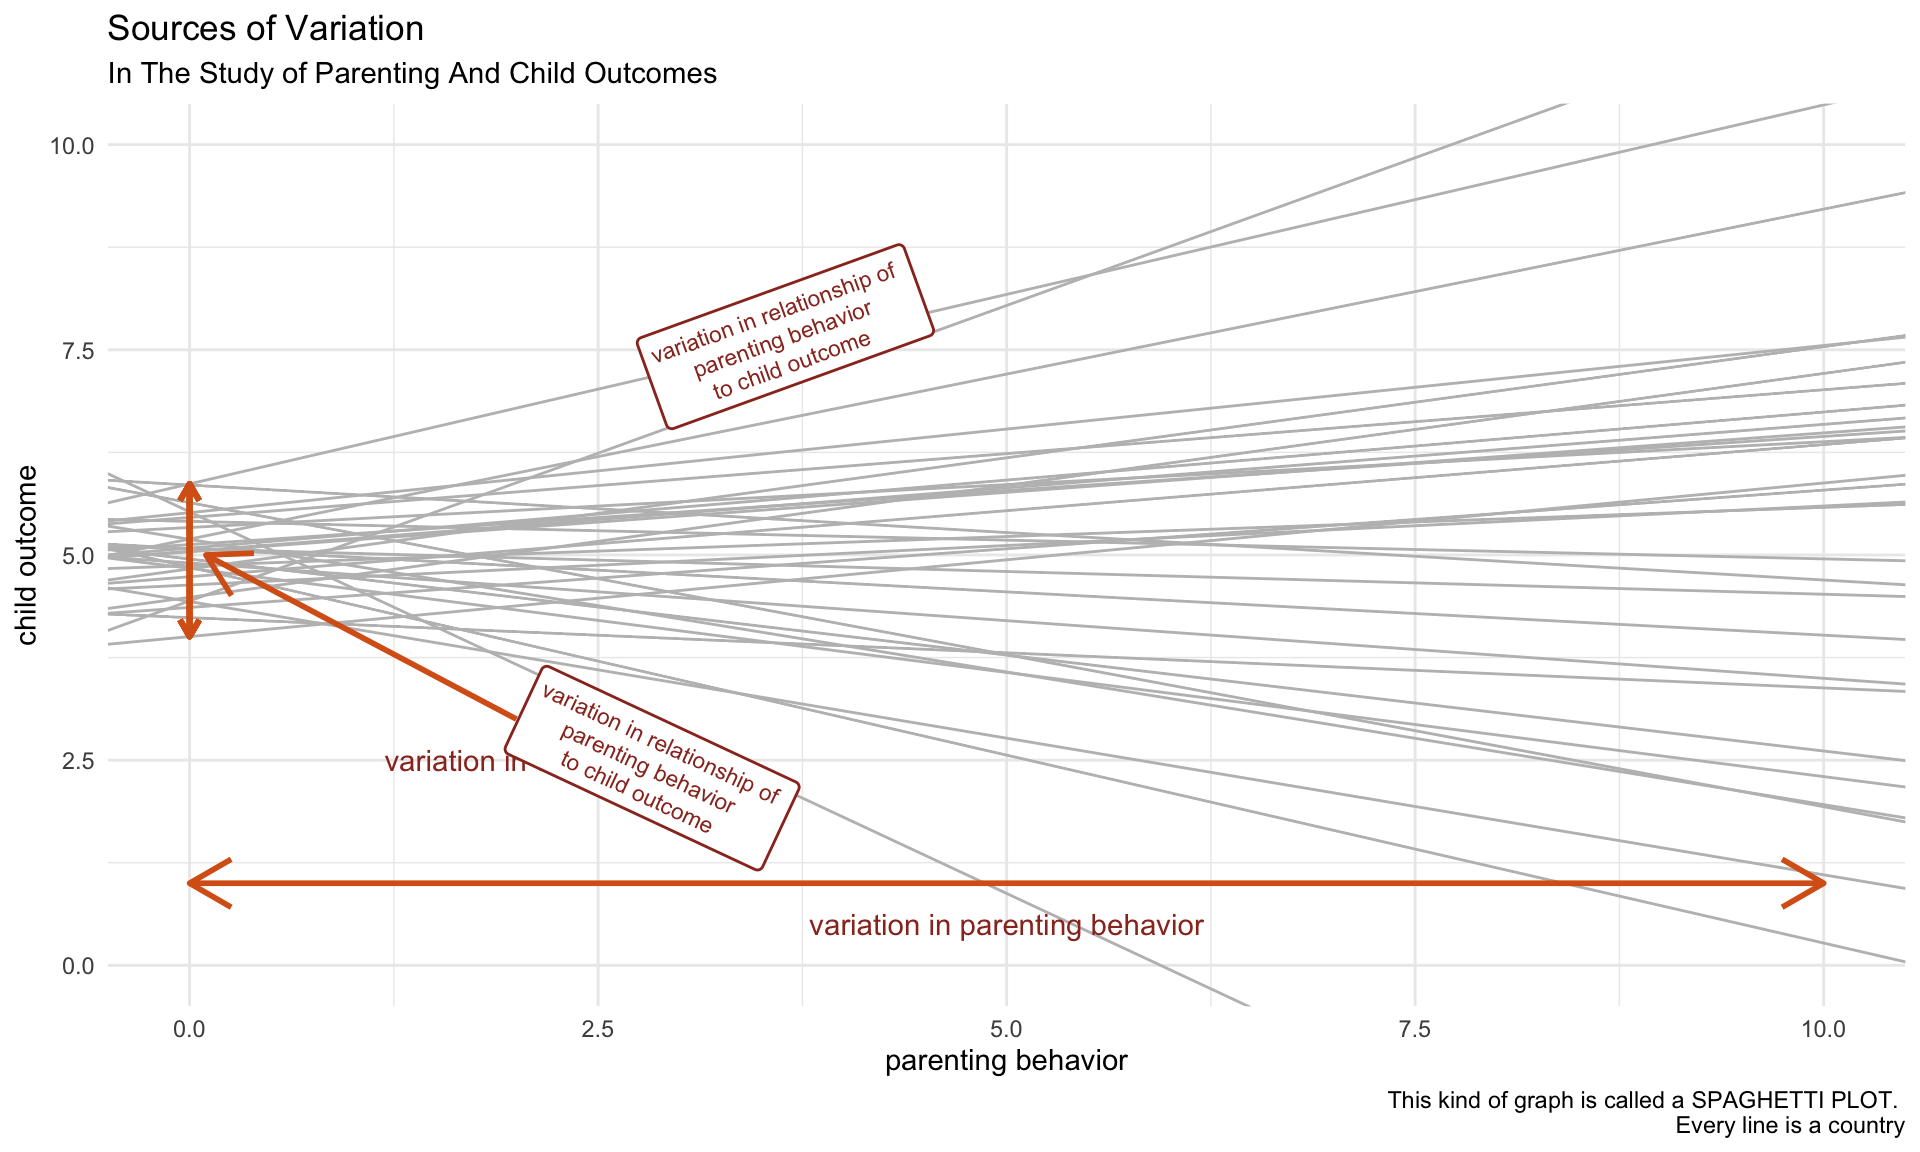
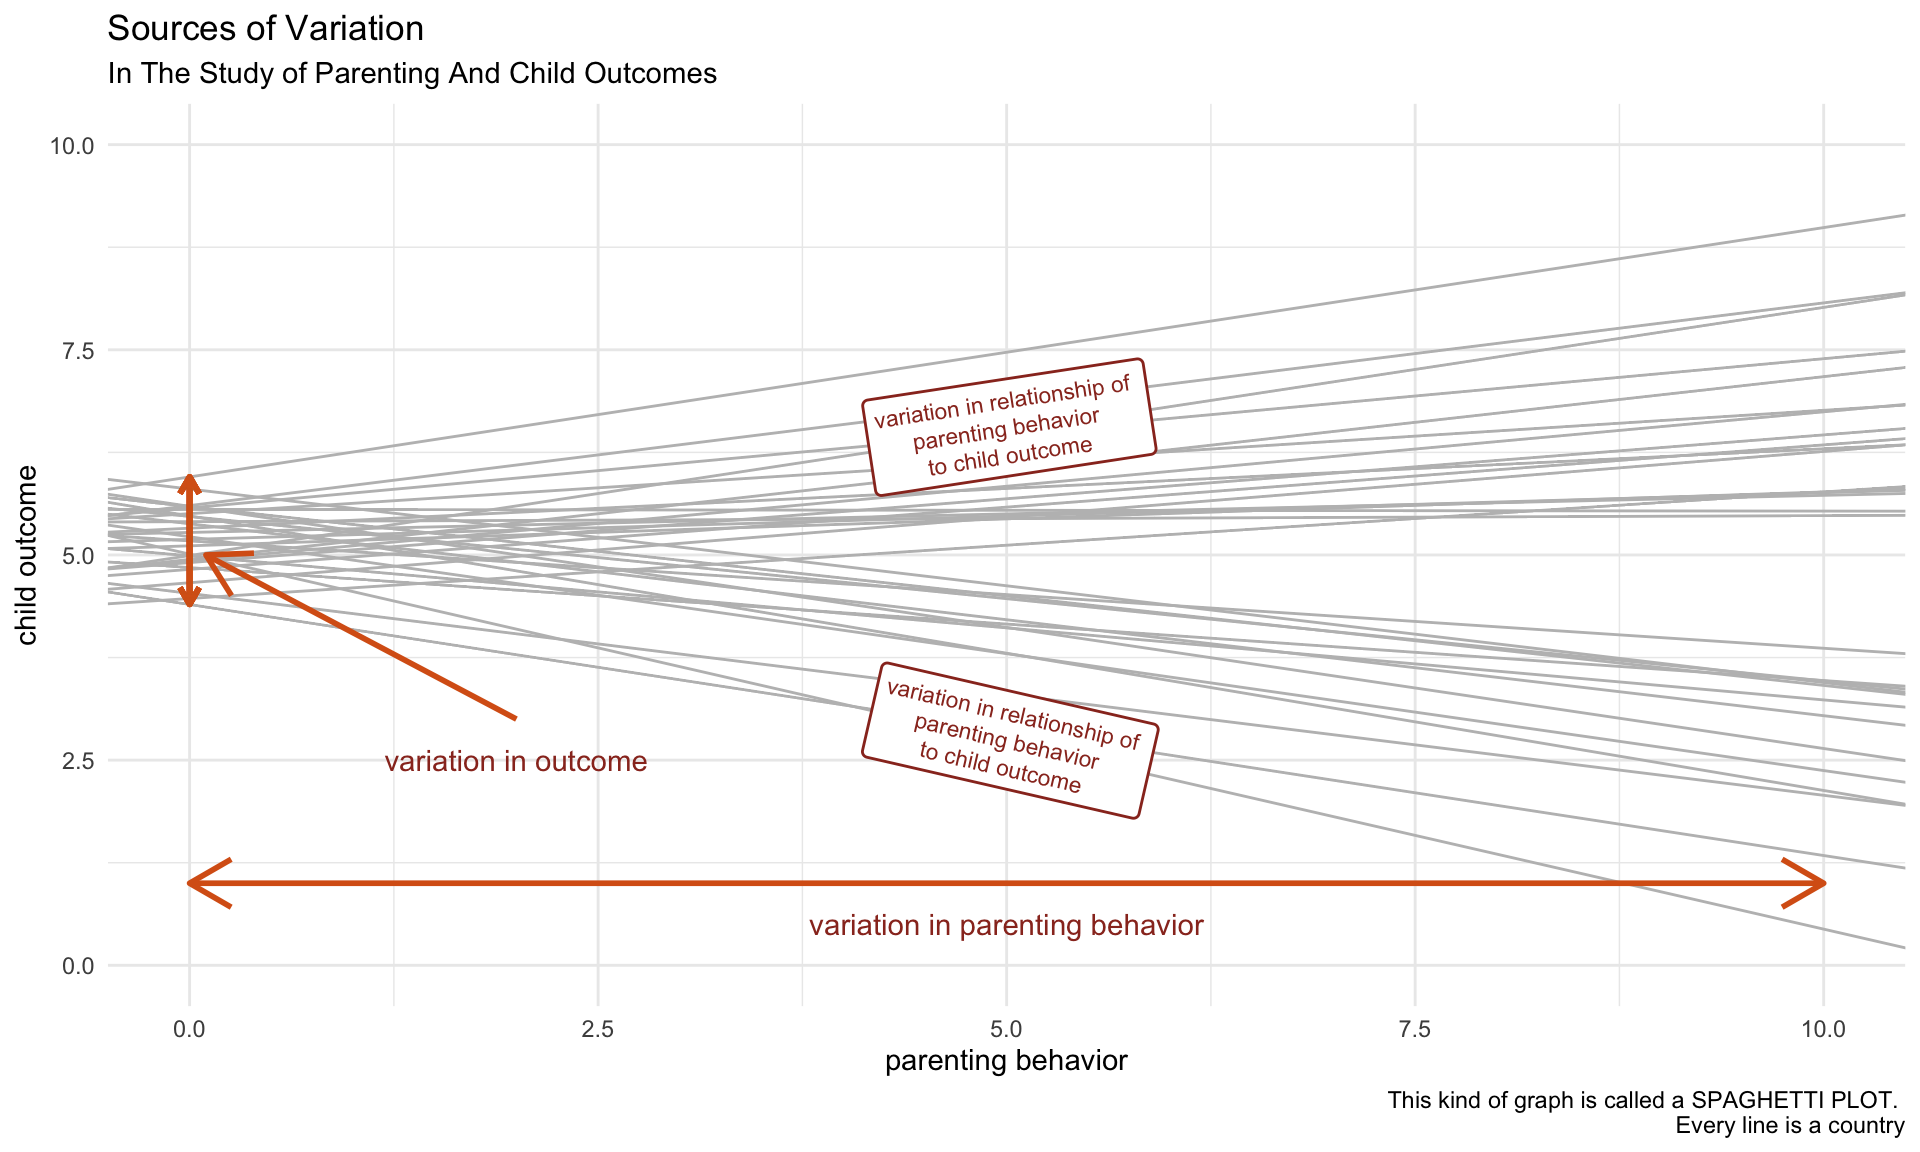
OK, I keep goofing around with the MICHIGAN colors: back to maize letters on blue background

diff --git a/positive-and-negative-parenting-revealjs.html b/positive-and-negative-parenting-revealjs.html
@@ -303,8 +303,8 @@ function typeWriter() {
 <p>MICS data collected by UNICEF from Low and Middle Income Countries (LMIC) around the world. <span class="math inline">\(N = 224,632 \text{ families}; N_{countries} = 60\)</span></p>
 <div class="cell">
 <div class="cell-output-display">
-<div class="plotly html-widget html-fill-item" id="htmlwidget-a1265810f9f6739d7c1f" style="width:960px;height:480px;"></div>
-<script type="application/json" data-for="htmlwidget-a1265810f9f6739d7c1f">{"x":{"visdat":{"2df72813d40c":["function () ","plotlyVisDat"]},"cur_data":"2df72813d40c","attrs":{"2df72813d40c":{"alpha_stroke":1,"sizes":[10,100],"spans":[1,20],"z":1,"text":{},"colors":"dodgerblue","hoverinfo":"text","locations":{},"showscale":false,"marker":{"size":10,"line":{"color":"rgba(0,0,0,1)","width":0.5}},"inherit":true}},"layout":{"margin":{"b":40,"l":60,"t":25,"r":10},"mapType":"geo","geo":{"domain":{"x":[0,1],"y":[0,1]},"showframe":true,"showcoastlines":true,"showcountries":true,"showland":true,"countrycolor":"rgba(190,190,190,1)","showocean":true,"oceancolor":"white","projection":{"type":"robinson"},"landcolor":"rgba(211,211,211,1)","bgcolor":"transparent"},"plot_bgcolor":"transparent","paper_bgcolor":"transparent","scene":{"zaxis":{"title":[]}},"hovermode":"closest","showlegend":false},"source":"A","config":{"modeBarButtonsToAdd":["hoverclosest","hovercompare"],"showSendToCloud":false,"displayModeBar":false},"data":[{"colorbar":{"title":"","ticklen":2},"colorscale":[["0","rgba(30,144,255,1)"],["1","rgba(30,144,255,1)"]],"showscale":false,"z":[1,1,1,1,1,1,1,1,1,1,1,1,1,1,1,1,1,1,1,1,1,1,1,1,1,1,1,1,1,1,1,1,1,1,1,1,1,1,1,1,1,1,1,1,1,1,1,1,1,1,1,1,1,1,1,1,1,1,1,1,1],"text":["Algeria","Argentina","Bangladesh","Barbados","Belarus","Belize","Benin","Bosnia and Herzegovina","Cameroon","Central African Republic","Chad","Democratic Republic of the Congo","Republic of the Congo","Costa Rica","Cote d'Ivoire","Dominican Republic","El Salvador","Eswatini","Ghana","Guinea","Guinea Bissau","Guyana","Iraq","Jamaica","Kazakhstan","Kenya","Kosovo","Kyrgyzstan","Laos","Macedonia","Madagascar","Malawi","Mali","Mauritania","Mexico","Moldova","Mongolia","Montenegro","Nepal","Nigeria","Pakistan","Panama","Paraguay","Sao Tome and Principe","Senegal","Serbia","Sierra Leone","Somalia","St. Lucia","State of Palestine","Suriname","Thailand","The Gambia","Togo","Trinidad and Tobago","Tunisia","Turkmenistan","Ukraine","Uruguay","Vietnam","Zimbabwe"],"hoverinfo":["text","text","text","text","text","text","text","text","text","text","text","text","text","text","text","text","text","text","text","text","text","text","text","text","text","text","text","text","text","text","text","text","text","text","text","text","text","text","text","text","text","text","text","text","text","text","text","text","text","text","text","text","text","text","text","text","text","text","text","text","text"],"locations":["DZA","ARG","BGD","BRB","BLR","BLZ","BEN","BIH","CMR","CAF","TCD","COD","COG","CRI","CIV","DOM","SLV","SWZ","GHA","GIN","GNB","GUY","IRQ","JAM","KAZ","KEN",null,"KGZ","LAO","MKD","MDG","MWI","MLI","MRT","MEX","MDA","MNG","MNE","NPL","NGA","PAK","PAN","PRY","STP","SEN","SRB","SLE","SOM","LCA","PSE","SUR","THA","GMB","TGO","TTO","TUN","TKM","UKR","URY","VNM","ZWE"],"marker":{"size":10,"line":{"color":"rgba(0,0,0,1)","width":0.5}},"type":"choropleth","geo":"geo","frame":null}],"highlight":{"on":"plotly_click","persistent":false,"dynamic":false,"selectize":false,"opacityDim":0.20000000000000001,"selected":{"opacity":1},"debounce":0},"shinyEvents":["plotly_hover","plotly_click","plotly_selected","plotly_relayout","plotly_brushed","plotly_brushing","plotly_clickannotation","plotly_doubleclick","plotly_deselect","plotly_afterplot","plotly_sunburstclick"],"base_url":"https://plot.ly"},"evals":[],"jsHooks":[]}</script>
+<div class="plotly html-widget html-fill-item" id="htmlwidget-39c71acad44f631db591" style="width:960px;height:480px;"></div>
+<script type="application/json" data-for="htmlwidget-39c71acad44f631db591">{"x":{"visdat":{"2f894f95a3b7":["function () ","plotlyVisDat"]},"cur_data":"2f894f95a3b7","attrs":{"2f894f95a3b7":{"alpha_stroke":1,"sizes":[10,100],"spans":[1,20],"z":1,"text":{},"colors":"dodgerblue","hoverinfo":"text","locations":{},"showscale":false,"marker":{"size":10,"line":{"color":"rgba(0,0,0,1)","width":0.5}},"inherit":true}},"layout":{"margin":{"b":40,"l":60,"t":25,"r":10},"mapType":"geo","geo":{"domain":{"x":[0,1],"y":[0,1]},"showframe":true,"showcoastlines":true,"showcountries":true,"showland":true,"countrycolor":"rgba(190,190,190,1)","showocean":true,"oceancolor":"white","projection":{"type":"robinson"},"landcolor":"rgba(211,211,211,1)","bgcolor":"transparent"},"plot_bgcolor":"transparent","paper_bgcolor":"transparent","scene":{"zaxis":{"title":[]}},"hovermode":"closest","showlegend":false},"source":"A","config":{"modeBarButtonsToAdd":["hoverclosest","hovercompare"],"showSendToCloud":false,"displayModeBar":false},"data":[{"colorbar":{"title":"","ticklen":2},"colorscale":[["0","rgba(30,144,255,1)"],["1","rgba(30,144,255,1)"]],"showscale":false,"z":[1,1,1,1,1,1,1,1,1,1,1,1,1,1,1,1,1,1,1,1,1,1,1,1,1,1,1,1,1,1,1,1,1,1,1,1,1,1,1,1,1,1,1,1,1,1,1,1,1,1,1,1,1,1,1,1,1,1,1,1,1],"text":["Algeria","Argentina","Bangladesh","Barbados","Belarus","Belize","Benin","Bosnia and Herzegovina","Cameroon","Central African Republic","Chad","Democratic Republic of the Congo","Republic of the Congo","Costa Rica","Cote d'Ivoire","Dominican Republic","El Salvador","Eswatini","Ghana","Guinea","Guinea Bissau","Guyana","Iraq","Jamaica","Kazakhstan","Kenya","Kosovo","Kyrgyzstan","Laos","Macedonia","Madagascar","Malawi","Mali","Mauritania","Mexico","Moldova","Mongolia","Montenegro","Nepal","Nigeria","Pakistan","Panama","Paraguay","Sao Tome and Principe","Senegal","Serbia","Sierra Leone","Somalia","St. Lucia","State of Palestine","Suriname","Thailand","The Gambia","Togo","Trinidad and Tobago","Tunisia","Turkmenistan","Ukraine","Uruguay","Vietnam","Zimbabwe"],"hoverinfo":["text","text","text","text","text","text","text","text","text","text","text","text","text","text","text","text","text","text","text","text","text","text","text","text","text","text","text","text","text","text","text","text","text","text","text","text","text","text","text","text","text","text","text","text","text","text","text","text","text","text","text","text","text","text","text","text","text","text","text","text","text"],"locations":["DZA","ARG","BGD","BRB","BLR","BLZ","BEN","BIH","CMR","CAF","TCD","COD","COG","CRI","CIV","DOM","SLV","SWZ","GHA","GIN","GNB","GUY","IRQ","JAM","KAZ","KEN",null,"KGZ","LAO","MKD","MDG","MWI","MLI","MRT","MEX","MDA","MNG","MNE","NPL","NGA","PAK","PAN","PRY","STP","SEN","SRB","SLE","SOM","LCA","PSE","SUR","THA","GMB","TGO","TTO","TUN","TKM","UKR","URY","VNM","ZWE"],"marker":{"size":10,"line":{"color":"rgba(0,0,0,1)","width":0.5}},"type":"choropleth","geo":"geo","frame":null}],"highlight":{"on":"plotly_click","persistent":false,"dynamic":false,"selectize":false,"opacityDim":0.20000000000000001,"selected":{"opacity":1},"debounce":0},"shinyEvents":["plotly_hover","plotly_click","plotly_selected","plotly_relayout","plotly_brushed","plotly_brushing","plotly_clickannotation","plotly_doubleclick","plotly_deselect","plotly_afterplot","plotly_sunburstclick"],"base_url":"https://plot.ly"},"evals":[],"jsHooks":[]}</script>
 <p>Countries in UNICEF MICS Data</p>
 </div>
 </div>

diff --git a/positive-and-negative-parenting-revealjs.css b/positive-and-negative-parenting-revealjs.css
@@ -1,18 +1,18 @@
 h1.title {
   font-size: 55px;
-  color: #00274C;
-  background-color: #FFCB05;
+  color: #FFCB05;
+  background-color: #00274C;
 }
 
 .subtitle {
-  color: #00274C;
-  background-color: #FFCB05;
+  color: #FFCB05;
+  background-color: #00274C;
 }
 
 .quarto-title-author-name, .date {
   font-size: 30px;
-  color: #00274C;
-  background-color: #FFCB05;
+  color: #FFCB05;
+  background-color: #00274C;
 }
 
 p.author {
